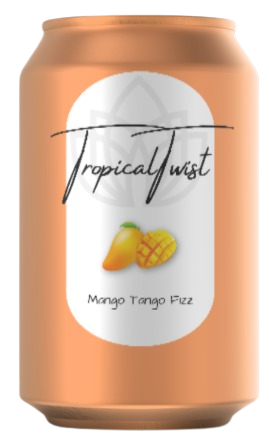
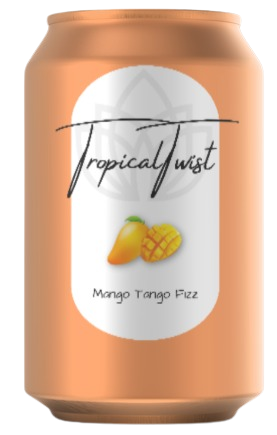
Update new design and can and fix the layout

diff --git a/src/Data/SodaData.tsx b/src/Data/SodaData.tsx
@@ -1,7 +1,15 @@
 import mangoImg  from '../assets/MongoSodaCan.png';
-import watermelonImg from '../assets/watermelonSodaCan.png';
+import watermelonImg from '../assets/watermeloncan.png';
 import mangoBg from '../assets/mangoBG.png'
 import watermelonBg from '../assets/ware.png'
+import aproctimg from '../assets/apriocctcan.png'
+import aproctbg from '../assets/apriocctBg.png'
+import blueberryimg from '../assets/blueberrycan.png'
+import blueberrybg from '../assets/blueberrybg.png'
+import graphfriuitImg from '../assets/graphfruitcan.png'
+import graphfruitbg from '../assets/graphfruitbg.png'
+import pemoImg from '../assets/pomecan.png'
+import pemoBg from '../assets/pomebg.png'
 
 export const SodaData = [
     {
@@ -25,5 +33,49 @@ export const SodaData = [
         bgImg: watermelonBg,
         imgTransitionStatus:'sodaImgExit',
         textTransitionStatus:'sodaTextDownExit'
-    }
+    },
+    {
+        id:1,
+        title: 'Apricot Euphoria Fizz',
+        breif: 'Apricot Euphoria Fizz is a apricot flavored soda that is made with real apricot juice. It is a refreshing drink that is perfect for a hot summer day. ',
+        price: 1.99,
+        bgColour: '#ff0000',
+        img: aproctimg,
+        bgImg: aproctbg,
+        imgTransitionStatus:'sodaImgExit',
+        textTransitionStatus:'sodaTextDownExit'
+    },
+    {
+        id:1,
+        title: 'Blueberry Bubby burst',
+        breif: 'Blueberry bubby burst is a blueberry flavored soda that is made with real blueberry juice. It is a refreshing drink that is perfect for a hot summer day.',
+        price: 1.99,
+        bgColour: '#ff0000',
+        img: blueberryimg,
+        bgImg: blueberrybg,
+        imgTransitionStatus:'sodaImgExit',
+        textTransitionStatus:'sodaTextDownExit'
+    },
+    {
+        id:1,
+        title: 'Grapefruit Zest Zing',
+        breif: 'Graperfruit Zest Zing is a grapefruit flavored soda that is made with real grapefruit juice. It is a refreshing drink that is perfect for a hot summer day.',
+        price: 1.99,
+        bgColour: '#ff0000',
+        img: graphfriuitImg,
+        bgImg: graphfruitbg,
+        imgTransitionStatus:'sodaImgExit',
+        textTransitionStatus:'sodaTextDownExit'
+    },
+    {
+        id:1,
+        title: 'Pomegranate Paradise Punch',
+        breif: 'Pomegranate Paradise Punch is a pomegranate flavored soda that is made with real pomegranate juice. It is a refreshing drink that is perfect for a hot summer day.',
+        price: 1.99,
+        bgColour: '#ff0000',
+        img: pemoImg,
+        bgImg: pemoBg,
+        imgTransitionStatus:'sodaImgExit',
+        textTransitionStatus:'sodaTextDownExit'
+    },
 ]

diff --git a/src/Styles/Home.css b/src/Styles/Home.css
@@ -190,6 +190,7 @@
 .imageContent .sodaProd {
     position: relative;
     top: 10%;
+    left: -1%;
     width: 100%;
     height: 100%;
     transition: all 1s ease-in-out;
@@ -197,7 +198,7 @@
 }
 
 .imageContent .sodaProd img {
-    width: 200px;
+    width:220px;
     object-fit: contain;
     filter: drop-shadow(0px 0px 20px #00000064);
 }
@@ -211,10 +212,10 @@
 
 .sodaImgEnter::before {
     content: '';
-    width: 900px;
-    height: 900px;
+    width: 1000px;
+    height: 1000px;
     position: absolute;
-    top: 0%;
+    top: -2%;
     left: 0%;
     transform: translate(-38%, -30%) scale(1);
     background: var(--sodaBgImg);
@@ -224,10 +225,10 @@
 
 .sodaImgExit::before {
     content: '';
-    width: 900px;
-    height: 900px;
+    width: 1000px;
+    height: 1000px;
     position: absolute;
-    top: 0%;
+    top: -2%;
     left: 0%;
     transform: translate(-38%, -30%) scale(0);
     background: var(--sodaBgImg);
